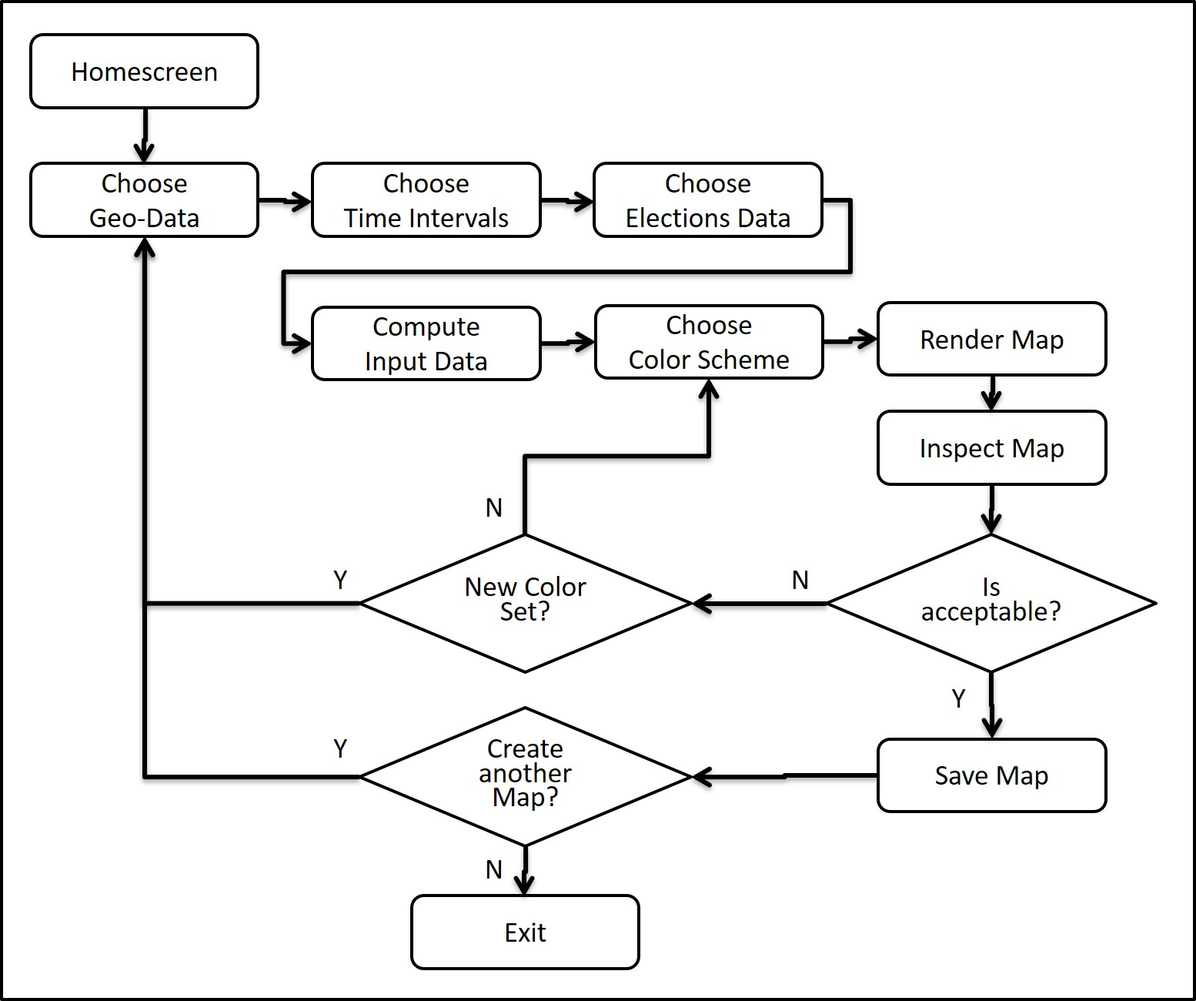
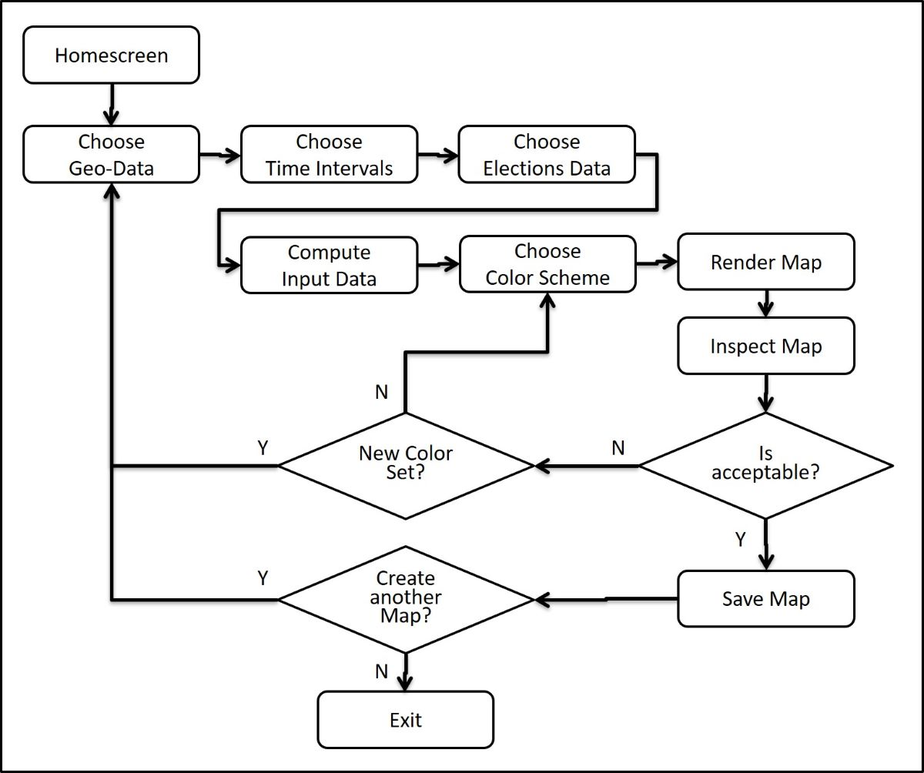
size changes
added word citations and changed format

diff --git a/README.md b/README.md
@@ -1,145 +1,190 @@
-# ISE521FINALPRJ_HTA
+# Hierarchical Task Analysis for Choropleth Map Design Process
+>This repository and associated Binder were prepared by G. Aiello, F. Groß, and J. Houghton
 
 [![Binder](https://mybinder.org/badge_logo.svg)](https://mybinder.org/v2/gh/james-houghton/ISE521FINALPRJ_HTA/binder_version)
 
 
 
-# NOTES: (this will be removed before final presentation)
-I going to try to organize/structure everything for our final presentation and outline everything here (https://github.com/james-houghton/ISE521FINALPRJ_HTA/blob/master/README.md). The binder_version branch of this repo will be used to continue implementing the Basic_example. This version will (eventually) outline each section and include placeholders with descriptions of the content that will eventually go there. Continue to use the binder_version branch (for coding and link to lauch Binder) and I can move content over incrementally once it is working/finished.
-
-I will also try to add note to the Basic_Example notebook so take a look and et me know anything if there are any major changes that need to be made or if you have any questions, comments, concerns.
+## Abstract 
+----------
 
 
-File Descriptions:
-name and one sentence summary of what it does
+sdfwoefwgwega\
+sfasdgweg
 
-
-Begin Final Paper
+xdffw
 
 
 
-# Hierarchical Task Analysis for Choropleth Map Design Process
+
+## Hierarchical Task Analysis for Choropleth Map Design Process via Binder
+---
 
 
-[![Binder](https://mybinder.org/badge_logo.svg)]  
+[![Binder](https://mybinder.org/badge_logo.svg)](https://mybinder.org/v2/gh/james-houghton/ISE521FINALPRJ_HTA/binder_version) 
 
-Launch Binder Repository using Binder icon on the left or the following link [link here]  
-
-- JH to create new binder and place icon here. the Binder icon at the top of this document is still connected the the binder_version
+Launch Binder Repository using Binder icon above or  click __[here](https://mybinder.org/v2/gh/james-houghton/ISE521FINALPRJ_HTA/7d62ae4bbce4d88e9117e6857e0f7d72450e7e3d?filepath=Basic%20Example.ipynb)__ to be directed to the "Basic Example" found in this repository. 
 
 
 
-### Choropleth map
+### Choropleth Map Example
 
 
->Place Choropleth map here
+
+>![Alt text](./data/static/test0.png "Choropleth Map for Rhode Island")
 
 
 
 
 
+## Usage of HTA Maping Process
+___
+- [Hierarchical Task Analysis for Choropleth Map Design Process](#hierarchical-task-analysis-for-choropleth-map-design-process)
+  * [Abstract](#abstract)
+  * [Hierarchical Task Analysis for Choropleth Map Design Process via Binder](#hierarchical-task-analysis-for-choropleth-map-design-process-via-binder)
+    + [Choropleth Map Example](#choropleth-map-example)
+  * [Usage of HTA Maping Process](#usage-of-hta-maping-process)
+      - [Introduction:](#introduction-)
+      - [Literature Review:](#literature-review-)
+          + [Integration Test / Unit Test](#integration-test---unit-test)
+        * [HTA Procedure](#hta-procedure)
+      - [HTA Procedure:](#hta-procedure-)
+          + [1. Define Task Under Analysis](#1-define-task-under-analysis)
+          + [2. Data Collection Process](#2-data-collection-process)
+          + [3. Determine overall Goal of the Task](#3-determine-overall-goal-of-the-task)
+          + [4. Sub Goal of the task](#4-sub-goal-of-the-task)
+      - [Conclusion:](#Conclusion)
+      - [References](#references)
 
-This repository and associated Binder{thingy) were prepared by G. Aiello, F. Groß, and J. Houghton
+<small><i><a href='http://ecotrust-canada.github.io/markdown-toc/'>Table of contents generated with markdown-toc</a></i></small>
+
 
 #### Introduction:
 
-Hierarchical Task Analysis (HTA) was first introduced by Annett and Duncan in 1967 (Annett & Duncan, 1967) and has been developed since then. It is known to be the best task analysis according to Kirwan & Ainsworth (1992). One of the most influential ideas for HTA rose in the 1950s. Especially the identification of error variance in system performance from systems theory was a crucial influence (Chapanis, 1951). Annett (2004) stated that the top-down systems approach that HTA uses, enables analysts to identify and deal with factors that generate the largest error variance. Most of the development of HTA in further years concentrated on the need for greater understanding of cognitive tasks (Annett, 2004). At the time HTA was originally developed, existing approaches to structure tasks tended to focus on observable aspects of performance while HTA sought to represent system goals and plans. That was a radical departure from contemporary approaches. HTA offered a way to describe a system in terms of goals and sub-goals, with feedback loops in a nested hierarchy (Stanton, 2006).
 
-HTA belongs to a category of task description methods that focus on crucial aspects of the task within the context of the overall task (Kirwan & Ainsworth, 1992). The basic hierarchy therefore represents a system without control that is influenced from above (authoritarian) or below (delegatory) (Shepherd, 2000). This make the approach goal oriented instead of action-oriented (Annett & Stanton, 2000).
+Hierarchical Task Analysis (HTA) was first introduced by Annett and Duncan in 1967 
+[(Annett & Duncan, 1967)](#references) 
+ and has been further developed since then. It is known to be the best task analysis according to Kirwan & Ainsworth [(1992)](#references). Identification of error variance in system performance from systems theory was a crucial influence in HTA begining in the 1950's [(Chapanis, 1951)](#references). Annett [(2004)](#references)  stated that the top-down systems approach, that HTA uses, enables analysts to identify and deal with factors that generate the largest error variance. Further development of HTA concentrated on the need for greater understanding of cognitive tasks [(Annett, 2004)](#references). At the time HTA was originally developed, existing approaches to structure tasks focused on observable aspects of performance while HTA sought to represent system goals and plans. That was a radical departure from contemporary approaches. HTA offered a way to describe a system in terms of goals and sub-goals, with feedback loops in a nested hierarchy [(Stanton, 2006)](#references).
+
+HTA belongs to a category of task description methods that focus on crucial aspects of the task within the context of the overall task [(Kirwan & Ainsworth, 1992)](#references). The basic hierarchy therefore represents a system without control that is influenced from above (authoritarian) or below (delegatory) [(Shepherd, 2000)](#references). This makes the approach goal oriented instead of action-oriented [(Annett & Stanton, 2000)](#references).
 
 
 #### Literature Review:
 
-Applications of HTA are observable in many different areas because of the approach’s variety and adaptability. The method’s success in these areas can be put down to two key findings. On the one hand, the approach is inherently flexible. Users are able to describe mostly any system. Astley and Stammers (1987) state that HTA has been used for decades in order to describe generations of major technological systems. On the other hand, the approach is driven by high applicability. Personal specifications, training requirements, error prediction, team performance assessment and system design are possible areas of application (Stanton, 2006).  Especially popular applications took place in training design, interface design and job design (Piso, 1981; Hodgkinson & Crawshaw, 1985; Bruseberg & Shepherd, 1997). Noticeable should be that this does not conclude that the application is easy. Even though there are only a few rules, it requires experience and skills acquired under expert guidance to apply it effectively (Stanton & Young, 1999).
+Applications of HTA are not limited by the type operation because of the approach’s variety and adaptability. The method’s success can be brocken down into two key findings. On the one hand, the approach is inherently flexible. Users are able to describe mostly any system. Astley and Stammers [(1987)](#references) state that HTA has been used for decades in order to describe generations of major technological systems. On the other hand, the approach is driven by high applicability. Personal specifications, training requirements, error prediction, team performance assessment and system design are possible areas of application [(Stanton, 2006)](#references).  Especially popular applications took place in training design, interface design and job design [(Piso, 1981; Hodgkinson & Crawshaw, 1985; Bruseberg & Shepherd, 1997)](#references). This does not conclude that the application of HTA is easy. Even though there are only a few rules, it requires experience and skills acquired under expert guidance to apply it effectively [(Stanton & Young, 1999)](#references).
 
-Of special relevance in this paper is the application of HTA in software design. Bellotti (1990) for example used HTA to model situations within the field of human-computer interaction including the computer interface. Because of previously mentioned characteristics HTA is easy to implement into software design methodologies (Mills 1998), which may account for increasing use in the area of system’s design. In Mills (2007) a detailed discussion of advantages and disadvantages can be found. The most relevant advantage for software design is stated by Kirwan and Ainsworth (1992). It says that HTA offers two distinct training benefits to people engaged in the analysis. First, the analysts can gain insight into processes and procedures that are entailed in plants and organizations. Secondly, training benefits users since they are required to articulate their understanding of the system itself. The point is that by doing the actual HTA the developers acquire deeper understanding of their system which in fact is crucial if the resulting system is supposed to function well.
+Of special relevance in this paper is the application of HTA in software design. Bellotti [(1990)](#references) for example used HTA to model situations within the field of human-computer interaction including the computer interface. Because of previously mentioned characteristics HTA is easy to implement into software design methodologies [(Mills 1998)](#references), which may account for increasing use in the area of system’s design. In Mills [(2007)](#references) a detailed discussion of advantages and disadvantages can be found. The most relevant advantage for software design is stated by Kirwan and Ainsworth [(1992)](#references). It says that HTA offers two distinct training benefits to people engaged in the analysis. First, the analysts can gain insight into processes and procedures that are entailed in plants and organizations. Secondly, training benefits users since they are required to articulate their understanding of the system itself. The point is that by doing the actual HTA the developers acquire deeper understanding of their system which in fact is crucial if the resulting system is supposed to function well.
 
 ###### Integration Test / Unit Test
 
-When developing software it is of fundamental importance to test it. The main purpose of testing is to reveal defects. Defect detection capabilities vary with the applied testing methods (Trautsch, 2020). Two important testing methods are unit testing and integration testing. The IEEE standard ISO/IEC/IEEE 24765-2010 (IEEE, 2010) defines the most important vocabulary for software engineering. It defines a unit as a separately testable element specified in the design of a computer software component. It is a logically separable part that is not subdivided into other components. Unit tests are tests of individual hardware or software units or groups of related items. Integration testing relates to the progressive linking and testing of programs or modules in order to ensure their proper functioning in the complete system. Typically unit tests would be performed prior to testing the overall system with integration tests even though some authors argue about the sequential arrangement of these procedures (Shahabuddin, 2017). Some of the given definitions might be outdated due to rapid developments in modern software development contexts (Trautsch, 2020). Anyway, an overall understanding of the developed system is required in order to design good tests that allow successful applications. HTA as previously described is a method that makes developers acquire the relevant deep understanding which reveals possible synergies in the development process.
+When developing software it is of fundamental importance to test it. The main purpose of testing is to reveal defects. Defect detection capabilities vary with the applied testing methods [(Trautsch, 2020)](#references). Two important testing methods are unit testing and integration testing. The IEEE standard ISO/IEC/IEEE 24765-2010 [(IEEE, 2010)](#references) defines the most important vocabulary for software engineering. It defines a unit as a separately testable element specified in the design of a computer software component. It is a logically separable part that is not subdivided into other components. Unit tests are tests of individual hardware or software units or groups of related items. Integration testing relates to the progressive linking and testing of programs or modules in order to ensure their proper functioning in the complete system. Typically unit tests would be performed prior to testing the overall system with integration tests even though some authors argue about the sequential arrangement of these procedures [(Shahabuddin, 2017)](#references). Some of the given definitions might be outdated due to rapid developments in modern software development contexts [(Trautsch, 2020)](#references). Anyway, an overall understanding of the developed system is required in order to design good tests that allow successful applications. HTA as previously described is a method that makes developers acquire the relevant deep understanding which reveals possible synergies in the development process.
 
 ##### HTA Procedure
 
-The first paper to lay out approaches for conducting HTA was Annett et al. (1971). It states that the methodology is based upon a theory of human performance. Shepherd (2000) added that it can be regarded as a model of human behavior. As a lack of more information about the human operations can be dangerous, it is critical to follow some kind of guidance. There are three main principles governing the analysis (Annett et al., 1971):
+The first paper to lay out approaches for conducting HTA was Annett et al. [(1971)](#references). It states that the methodology is based upon a theory of human performance. Shepherd [(2000)](#references) added that it can be regarded as a model of human behavior. As a lack of more information about the human operations can be dangerous, it is critical to follow some kind of guidance. There are three main principles governing the analysis [(Annett et al., 1971)](#references):
 1.	At the highest level of hierarchy a task is considered to be consisting of an operation. This operation is defined in terms of its goal. The goal describes the overall objective of the system in terms of applicable criteria.
 2.	Operations can be broken down into sub-operations. Each of them is defined by a sub-goal which describes the contribution to the overall system’s goal. It is therefore measurable by performance standards and criteria.
 3.	The relationship between operations and sub-operations is one of inclusion which means it is a hierarchical relationship.
 
 These principles have not changed over the past years.
-A procedure for development of the sub-goal hierarchy with the plans is presented in Stanton (2006) in Figure XY. It offers a useful heuristic for breaking the tasks down into a sub-goal hierarchy. This process is of iterative nature and provides a systematic approach for the construction of an HTA structure through repetitive checks. The underlying basic heuristics can be defined as:
+A procedure for development of the sub-goal hierarchy with the plans is presented in Stanton [(2006)](#references) in Figure 1. It offers a useful heuristic for breaking the tasks down into a sub-goal hierarchy. This process is of iterative nature and provides a systematic approach for the construction of an HTA structure through repetitive checks. The underlying basic heuristics can be defined as:
 
 -	Describing the system goals and sub-goals
 -	Trying to keep the number of immediate sub-goals under any sub-ordinate goal to a small number (i.e., between 3 and 10)
 -	Linking goals to sub-goals, and describe the conditions under which sub-goals are triggered
 -	Stop re-describing the sub-goals when you judge the analysis is fit-for-purpose
 
->![Alt text](./data/static/sub_goal_stanton06.png "Optional title2")
+>Figure 1![Alt text](./data/static/sub_goal_stanton06.png "Statons procedure for development: Figure 1")
 
 #### HTA Procedure:
 
-The Hierarchical Task Analysis framework is applied to define a generalized task sequence while simultaneously documenting the inherent Task Flow and Information Processing Requirements for a given  Choropleth mapping activity. Stanton's (2006) procedure for identifying sub-goal hierarchies and process plans is applied at the top level first. Then, assuming that the initial states of systems are under human control(or supervision), a "clairvoyant" approach often referred to as Belady's algorithm is used to create process plans for a specific subtasks.
+The Hierarchical Task Analysis framework is applied to define a generalized task sequence while simultaneously documenting the inherent Task Flow and Information Processing Requirements for a given  Choropleth mapping activity. Stanton's [(2006)](#references) procedure for identifying sub-goal hierarchies and process plans is applied at the top level first. Then, assuming that the initial states of systems are under human control(or supervision), a "clairvoyant" approach often referred to as Belady's algorithm is used to create process plans for a specific subtasks.
 
-The test-operate-test-exit (TOTE) procedure (Miller ref in HTA paper) was tested various task sequencing plans at different sublevels to observe the information processing tasks requirements. The purpose of this was to develop an understanding of where opportunities exist for automating modular task functions to increase process efficiency without jeopardizing the generalizability or extensibility. In this vein, process plans created in previous work (James personal code see notebook) were considered in the following Hierarchical Task Analysis with the goal of introducing subtasks that allow for limited customization of the Choropleth map above.  
+The test-operate-test-exit (TOTE) procedure [(Miller et al, 1960)](#references) was tested various task sequencing plans at different sublevels to observe the information processing tasks requirements. The purpose of this was to develop an understanding of where opportunities exist for automating modular task functions to increase process efficiency without jeopardizing the generalizability or extensibility. In this vein, process plans created in [previous work](https://github.com/james-houghton/ISE521FINALPRJ_HTA/blob/master/HTA%20for%20making%20Choropleth%20maps%20v0.ipynb) were considered in the following Hierarchical Task Analysis with the goal of introducing subtasks that allow for limited customization of the Choropleth map above.  
 
 
 ###### 1. Define Task Under Analysis
 
 
-The task is to create a data visualization tool for rendering a Time-Slider Choropleth map for times-series data that are indexable by voter precinct and the geographic location area. The Choropleth map features a color scale that is linearly proportional to a the arrival rate of voters in each precinct during a given interval of time. The existing data visualization tool aims to be extended to include additional customization options. It is also important that the process plan is designed with in a generalized sense such that it is adaptable future use. As the specific customization requirements, time-series data structures, and geographic indicie schemas are not well documented in the existing process plans (HTA____v0), there is a need to investigate this further using Hierarchical Task analysis.    
+The task is to create a data visualization tool for rendering a Time-Slider Choropleth map for times-series data that are indexable by voter precinct and the geographic location area. The Choropleth map features a color scale that is linearly proportional to a the arrival rate of voters in each precinct during a given interval of time. The existing data visualization tool aims to be extended to include additional customization options. It is also important that the process plan is designed with in a generalized sense such that it is adaptable future use. As the specific customization requirements, time-series data structures, and geographic indicie schemas are not well documented in the [existing process plans](https://github.com/james-houghton/ISE521FINALPRJ_HTA/blob/master/HTA%20for%20making%20Choropleth%20maps%20v0.ipynb), there is a need to investigate this further using Hierarchical Task analysis.    
 
 ###### 2. Data Collection Process
 
-The primary source of information available at the initial time of the HTA came from the [link to 'HTA____v0.ipynb'] file provide Houghton. This describes a series of task functions that can successfully complete the task at hand but does not specify the order. Moreover, the process steps in the file are labeled using a cumulative count index with all data stored in a fixed initial state. The data are from locally stored files or the [RIGIS link] but cannot be directly merged at the initial state of the system. The data collection process began by executing all task (code cells in link to HTA____v0) sequentially and observing an acceptable outcome for the overall Goal described as follows.
+The primary source of information available at the initial time of the HTA came from the [HTA____v0.ipynb](https://github.com/james-houghton/ISE521FINALPRJ_HTA/blob/master/HTA%20for%20making%20Choropleth%20maps%20v0.ipynb) file provide Houghton. This describes a series of task functions that can successfully complete the task at hand but does not specify the order. Moreover, the process steps in the file are labeled using a cumulative count index with all data stored in a fixed initial state. The data are from locally stored files or the [RIGIS link] but cannot be directly merged at the initial state of the system. The data collection process began by executing all task  sequentially and observing an acceptable outcome for the overall Goal described as follows.
 
 ###### 3. Determine overall Goal of the Task
 
 
-The overall goal is apply the principles of Hierarchical Task Analysis previously discussed to define an alternate set of process plans and functions that successfully accomplish the same goal of creating (Choropleth map above) in the initial state defined in (HTA____v0) as well as a set of predefined future states.    
+The overall goal is apply the principles of Hierarchical Task Analysis previously discussed to define an alternate set of process plans and functions that successfully accomplish the same goal of creating a [Time-Slider Choropleth Map](#Choropleth-Map-Example) in the initial state defined in [(HTA____v0)](https://github.com/james-houghton/ISE521FINALPRJ_HTA/blob/master/HTA%20for%20making%20Choropleth%20maps%20v0.ipynb) as well as a set of predefined future states.    
 
 ###### 4. Sub Goal of the task
 
-The sub goal of the task is document the outcome of executing the original process plan under when refactored into different functions. The information observed visually while executing Time-Slider Choropleth map process plan is used to inform how the existing Choropleth mapping code can be further developed for broad application. Sub goals of this task are to also define a process plan for selecting a user-defined file paths to geo-data, time-series data, and color scale alternatives.
+The sub goal of the task is to document the outcome of executing the original processing code refactored into different functions/classes. The information observed visually when executing the process is used to inform how the existing Choropleth mapping code can be further developed for broad application. Sub goals of this task are to also define a process plan for selecting a user-defined file paths to geo-data, time-series data, and color scale alternatives.
 
 
 5. Sub-Goal Decomposition
-  - introduce the basic example and what is in the notebook.
+
+  For the decomposition of sub-goals the earlier mentioned iterative procedure by Stanton [(2006)](#references) has been applied. After having defined the overall goal, subordinate goals have been stated. These mainly cover the choice of geo-data, time-series data, elections-data and a color scheme. After several iterations more sub-goals were added in order to guarantee the systems integrity and functionality. These additional goals cover functional goals such as merging the data set, rendering the map, inspecting and saving the results.
 
 
 
 6. Plans Analysis
 
->![Alt text](./data/static/HTA_flowchart.png "Optional title")
-  - we created the basic example to understand the Task Hierarchy and Flow in order to gain a better understanding of the task requirements and feasible sequencing options.   
+In order to illustrate the structure of the defined sub-goal decomposition visualization was needed. Flow diagrams are very useful because they easily illustrate the connections and relations between the chosen sub-goals. This method makes it possible to better understand the task hierarchy and allows it to emphasize the task requirements and feasible sequencing options. Obviously the previously achieved results through the sub-goal decomposition have continuously developed and were expanded. This allowed defining the plans that are relevant for the structure of the final HTA. It needs to be noted that the plans analysis was not created in order to reflect the overall complexity. It considered a helpful tool whose objective is to show basic relations.We created the basic example to understand the Task Hierarchy and Flow in order to gain a better understanding of the task requirements and feasible sequencing options.  
+
+>![Alt text](./data/static/HTA_flowchart.png "Basic HTA Flowchart Example")
+   
 
 7. Stopping Rules
 
+Definitions of stopping rules require advanced understanding of the code and were therefore translated from the previously presented flow diagram. While developing the software some steps needed to be added since they were not obvious when the plans analysis was originally performed. After several adjustments during the process the final structure resulted. The stopping rules are included in the respective plans. They have been implemented through if-loops in combination with an HTA’s inherent characteristics. The homescreen for the process refers to the mainpage of the github repository that the project was built in.
 
 > HTA Basic Example Diagram
->![Alt text](./data/static/HTA_final.png "Optional title")
+>![Alt text](./data/static/HTA_final.png "HTA Basic Example Diagram")
+
+#### Conclusions:
+____
 
 
+#### References:
+___
 
+ Annett, J., Duncan, K.D., Stammers, R.B., Gray, M.J., 1971. Task Analysis. Department of Employment Training Information Paper 6. HMSO, London.
 
-#### References
-(copy and pasted from  Fabian's word doc. not sure the best way to reformat it)
-
-Annett, J., Duncan, K.D., Stammers, R.B., Gray, M.J., 1971. Task Analysis. Department of Employment Training Information Paper 6. HMSO, London.
 Annett, J., 2004. Hierarchical task analysis. In: Diaper, D., Stanton, N.A. (Eds.), The Handbook of Task Analysis for Human–Computer Interaction. Lawrence Erlbaum Associates, Mahwah, NJ, pp. 67–82.
+
 Annett, J. and Stanton, N.A., 2000. Research and developments in task analysis. In Task Analysis, J. Annett and N.A. Stanton (Eds), pp. 1 – 8 (London: Taylor & Francis, 2000).
+
 Astley, J.A., Stammers, R.B., 1987. Adapting hierarchical task analysis for user–system interface design. In: Wilson, J.R., Corlett, E.N., Manenica, I. (Eds.), New Methods in Applied Ergonomics. Taylor & Francis, London, pp. 175–184.
+
 Bellotti, V.M.E., 1990. A framework for assessing applicability of HCI techniques. In Human-Computer Interaction, Interact 90, D. Diaper, D. Gilmore, G. Cockton and B. Shackel (Eds), (North Holland: Elsevier Science, 1990), pp. 213 – 218.
+
 Bruseberg, A., Shepherd, A., 1997. Job design in integrated mail processing. In: Harris, D. (Ed.), Engineering Psychology and Cognitive Ergonomics. Job Design and Product Design, vol. 2. Ashgate Publishing, Aldershot, Hampshire, pp. 25–32.
+
 Chapanis, A., 1951. Theory and methods for analysing errors in man–machine systems. Ann. NY Acad. Sci. 51 (6), pp. 1179–1203.
+
 Hodgkinson, G.P., Crawshaw, C.M., 1985. Hierarchical task analysis for ergonomics research. An application of the method to the design and evaluation of sound mixing consoles. Appl. Ergon. 16 (4), 289–299.
+
 IEEE, 2010. Systems and software engineering –vocabulary. ISO/IEC/IEEE 24765:2010(E) 1–418. doi: 10.1109/IEEESTD.2010.5733835.
+
 Kirwan, B., Ainsworth, L.K. (Eds.), 1992. A Guide to Task Analysis. Taylor & Francis, London.
+
+Miller, GA, Galanter, E., & Pribram, KA (1960). Plans and the structure of behavior. New York: Holt, Rhinehart, & Winston.
+
 Mills, S., 1998. Information integration – a task orientated approach. Interacting with Computers, 9, 225 – 240.
+
 Mills, S., 2007. Contextualising design: Aspects of using usability context analysis and hierarchical task analysis for software design. Behaviour & Information Technology 26 (6), pp. 499-506.
+
 Piso, E., 1981. Task analysis for process-control tasks: the method of Annett et al. applied. Occup. Psychol. 54, 347–352.
+
 Shahabuddin, S.M., Yalla, P., 2017. Impact of Lean Software Development into Agile Process Model with Integration Testing prior to Unit Testing. Journal of Theoretical and Applied Information Technology 95 (22), pp. 6163-6175.
+
 Shepherd, A., 2000. HTA as a framework for task analysis. In Task Analysis, J. Annett and N.A. Stanton (Eds), pp. 9 – 24 (London: Taylor & Francis, 2000).
+
 Stanton, N., 2006. Hierarchical Task Analysis: Developments, applications, and extensions. Applied Ergonomics 37, pp. 55-79.
+
 Stanton, N.A., Young, M.S., 1999. A Guide to Methodology in Ergonomics. Taylor & Francis, London.
+
 Trautsch, F., Herbold, S., Grabowski, J., 2020. Are unit and integration test definitions still valid for modern Java projects? An empirical study on open-source projects. The Journal of Systems and Software 159.
 
-https://github.com/james-houghton/ISE521FINALPRJ_HTA/blob/master/HTA_test0.html/
+
